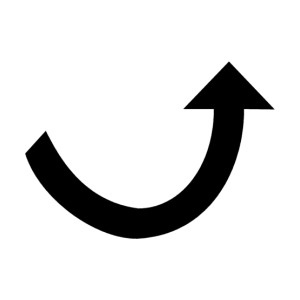
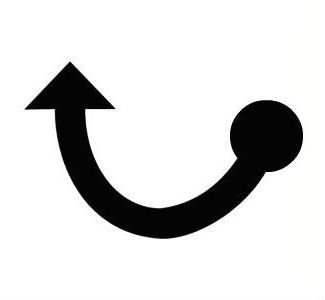
Edited arrow images

Changed region(s): [[0.06, 0.21, 0.96, 0.81], [0.45, 0.69, 0.51, 0.72]]

diff --git a/Digits/Digits/ViewController.m b/Digits/Digits/ViewController.m
@@ -41,8 +41,8 @@ bool decimalUsed = false;
                                         initWithTarget:self
                                         action:@selector(divDragged:)];
     
-    self.divBy10 = [[UIImageView alloc] initWithImage:[UIImage imageNamed:@"rightArrow.jpeg"]];
-    self.multBy10 = [[UIImageView alloc] initWithImage:[UIImage imageNamed:@"leftArrow.jpeg"]];
+    self.divBy10 = [[UIImageView alloc] initWithImage:[UIImage imageNamed:@"leftArrow.jpeg"]];
+    self.multBy10 = [[UIImageView alloc] initWithImage:[UIImage imageNamed:@"rightArrow.jpeg"]];
     
     self.divBy10.userInteractionEnabled = YES;
     self.multBy10.userInteractionEnabled = YES;
@@ -428,6 +428,7 @@ bool decimalUsed = false;
 
 - (IBAction)clearPresssed:(UIButton *)sender {
     numDigits = 0;
+    decimalUsed = false;
     self.numberDisplay.text = @"";
 }
 
